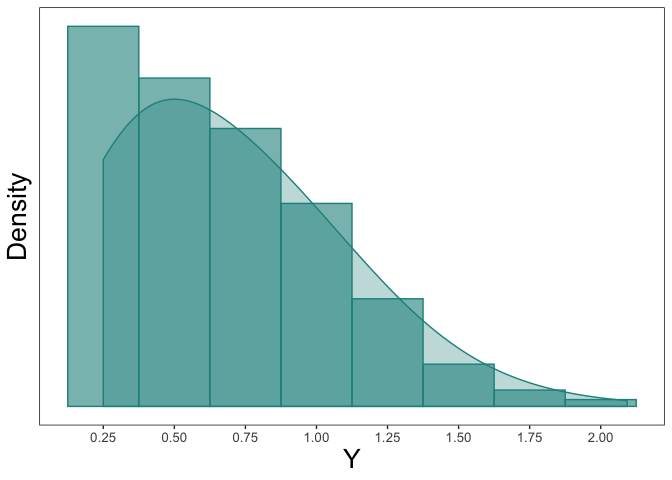
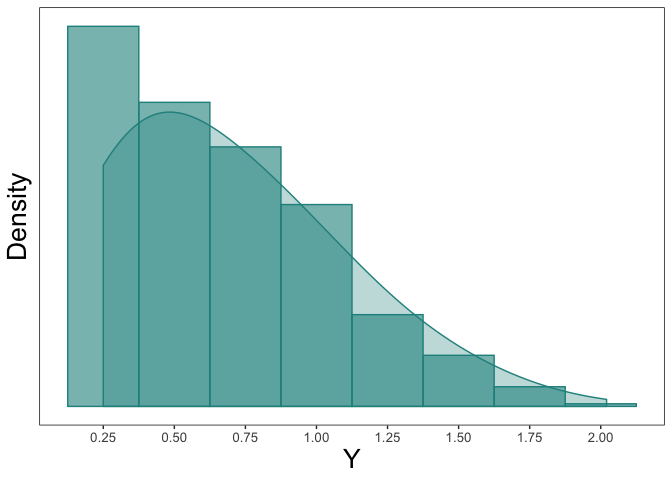
adding arXiv reference to README

diff --git a/README.md b/README.md
@@ -10,6 +10,11 @@ This package is also able to return maximum likelihood estimates for
 truncated only or censored only data similar to `truncreg` and `censReg`
 packages.
 
+For details on the methods, simulation performance, and an application
+to visual quality testing from clinical trials for intraocular lenses
+see the pre-print manuscript available at
+arXiv:[1911.11221](https://arxiv.org/abs/1911.11221).
+
 # Installation
 
 You can install `tcensReg` from GitHub via the devtools package with:
@@ -47,7 +52,7 @@ y_star <- rtnorm(n=1000, mu=mu, sd=sigma, a=a)
 round(range(y_star), 3)
 ```
 
-    ## [1] 0.001 2.093
+    ## [1] 0.002 2.021
 
 Next, we can imagine a scenario where we have an imprecise measurement
 of `y_star` leading to censoring. In our case we assume that values
@@ -63,7 +68,7 @@ y <- ifelse(y_star <= nu, nu, y_star)
 sum(y == nu)/length(y) 
 ```
 
-    ## [1] 0.178
+    ## [1] 0.175
 
 ``` r
 #collecting the uncensored and censored data together
@@ -87,23 +92,23 @@ tcensReg(y ~ 1, data=dt, a=0, v=0.25)
 ```
 
     ## $theta
-    ##              Estimate
-    ## (Intercept)  0.510163
-    ## log_sigma   -0.694013
+    ##               Estimate
+    ## (Intercept)  0.4985961
+    ## log_sigma   -0.6756989
     ## 
     ## $convergence
     ## [1] 0
     ## 
     ## $initial_ll
-    ## [1] -676.9805
+    ## [1] -678.9649
     ## 
     ## $final_ll
-    ## [1] -663.1653
+    ## [1] -663.5982
     ## 
     ## $var_cov
     ##               (Intercept)     log_sigma
-    ## (Intercept)  0.0008139653 -0.0008075067
-    ## log_sigma   -0.0008075067  0.0015552505
+    ## (Intercept)  0.0009021109 -0.0008835813
+    ## log_sigma   -0.0008835813  0.0016105281
     ## 
     ## $method
     ## [1] "CG"
@@ -152,9 +157,9 @@ knitr::kable(results_df, format="markdown", digits=4)
 |            |     mu |  sigma | mu\_bias | sigma\_bias |
 | :--------- | -----: | -----: | -------: | ----------: |
 | Truth      | 0.5000 | 0.5000 |   0.0000 |      0.0000 |
-| tcensReg   | 0.5102 | 0.4996 |   0.0102 |      0.0004 |
-| Normal MLE | 0.6708 | 0.3720 |   0.1708 |      0.1280 |
-| Tobit      | 0.6279 | 0.4361 |   0.1279 |      0.0639 |
+| tcensReg   | 0.4986 | 0.5088 |   0.0014 |      0.0088 |
+| Normal MLE | 0.6693 | 0.3761 |   0.1693 |      0.1239 |
+| Tobit      | 0.6267 | 0.4393 |   0.1267 |      0.0607 |
 
 Other methods result in significant bias for both `mu` and `sigma`.
 
@@ -208,28 +213,28 @@ mod_result
 
     ## $theta
     ##       (Intercept) groupPopulation 2        log_sigma1        log_sigma2 
-    ##        0.50385509        0.03116756       -1.41697232        0.80394657 
+    ##         0.5011022         0.1918981        -1.4297372         0.7564070 
     ## 
     ## $convergence
     ## [1] 1
     ## 
     ## $initial_ll
-    ## [1] -1963.795
+    ## [1] -1929.509
     ## 
     ## $final_ll
-    ## [1] -1868.682
+    ## [1] -1839.385
     ## 
     ## $var_cov
     ##                     (Intercept) groupPopulation 2    log_sigma1
-    ## (Intercept)        7.071249e-05     -7.071249e-05 -6.025734e-05
-    ## groupPopulation 2 -7.071249e-05      6.840507e-02  6.025734e-05
-    ## log_sigma1        -6.025734e-05      6.025734e-05  7.767044e-04
-    ## log_sigma2        -6.153304e-21     -1.336395e-02  4.609575e-21
+    ## (Intercept)        6.863419e-05     -6.863419e-05 -5.841808e-05
+    ## groupPopulation 2 -6.863419e-05      5.232715e-02  5.841808e-05
+    ## log_sigma1        -5.841808e-05      5.841808e-05  7.742292e-04
+    ## log_sigma2         0.000000e+00     -1.103773e-02  6.715368e-21
     ##                      log_sigma2
-    ## (Intercept)       -6.153304e-21
-    ## groupPopulation 2 -1.336395e-02
-    ## log_sigma1         4.609575e-21
-    ## log_sigma2         3.165867e-03
+    ## (Intercept)        0.000000e+00
+    ## groupPopulation 2 -1.103773e-02
+    ## log_sigma1         6.715368e-21
+    ## log_sigma2         2.904511e-03
     ## 
     ## $method
     ## [1] "maxLik"
@@ -253,7 +258,7 @@ knitr::kable(results_df, format="markdown", digits=4)
 |          |  mu\_1 |  mu\_2 | sigma\_1 | sigma\_2 | mu1\_bias | mu2\_bias | sigma1\_bias | sigma2\_bias |
 | :------- | -----: | -----: | -------: | -------: | --------: | --------: | -----------: | -----------: |
 | Truth    | 0.5000 | 1.0000 |   0.2500 |   2.0000 |    0.0000 |    0.0000 |       0.0000 |       0.0000 |
-| tcensReg | 0.5039 | 0.0312 |   0.2424 |   2.2343 |    0.0039 |    0.9688 |       0.0076 |       0.2343 |
+| tcensReg | 0.5011 | 0.1919 |   0.2394 |   2.1306 |    0.0011 |    0.8081 |       0.0106 |       0.1306 |
 
 # Performance Comparison: Censored-Only and Truncated-Only
 
@@ -274,10 +279,10 @@ cens <- microbenchmark(tcensReg_method = tcensReg(y ~ 1, data=dt, v=nu, method="
 knitr::kable(summary(cens), format="markdown", digits=4)
 ```
 
-| expr             |     min |      lq |    mean |  median |      uq |     max | neval | cld |
-| :--------------- | ------: | ------: | ------: | ------: | ------: | ------: | ----: | :-- |
-| tcensReg\_method |  4.8150 |  5.1894 |  6.7136 |  5.3320 |  7.2366 | 16.2714 |   100 | a   |
-| censReg\_method  | 13.4635 | 14.3291 | 19.6112 | 16.5354 | 21.7337 | 97.3373 |   100 | b   |
+| expr             |     min |      lq |    mean |  median |     uq |      max | neval | cld |
+| :--------------- | ------: | ------: | ------: | ------: | -----: | -------: | ----: | :-- |
+| tcensReg\_method |  4.9066 |  5.1803 |  8.1753 |  5.4755 |  7.566 | 114.0816 |   100 | a   |
+| censReg\_method  | 13.7456 | 14.5153 | 20.2144 | 19.1902 | 22.658 |  50.6535 |   100 | b   |
 
 ``` r
 #point estimates are equivalent
@@ -299,8 +304,8 @@ knitr::kable(summary(trunc), format="markdown", digits=4)
 
 | expr             |     min |      lq |    mean |  median |      uq |     max | neval | cld |
 | :--------------- | ------: | ------: | ------: | ------: | ------: | ------: | ----: | :-- |
-| tcensReg\_method |  8.3941 |  8.6821 | 10.0276 |  8.9120 | 10.9024 | 20.3003 |   100 | a   |
-| truncreg\_method | 24.8436 | 27.4892 | 30.2376 | 30.4455 | 32.0134 | 39.7985 |   100 | b   |
+| tcensReg\_method |  8.4382 |  9.1253 | 11.8149 | 10.5998 | 14.1876 | 23.9085 |   100 | a   |
+| truncreg\_method | 26.4334 | 29.7325 | 35.8368 | 35.4929 | 39.7004 | 58.7695 |   100 | b   |
 
 ``` r
 tcensReg_est <- as.numeric(tcensReg(y_star ~ 1, data=dt, a=a, method="Newton")$theta)
@@ -310,7 +315,7 @@ truncreg_est <- as.numeric(coef(truncreg(y_star ~ 1, point=a, data=dt)))
 all.equal(tcensReg_est, truncreg_est)
 ```
 
-    ## [1] "Mean relative difference: 3.746943e-07"
+    ## [1] "Mean relative difference: 3.784587e-08"
 
 In the comparisons above we are using an intercept only model, but in
 general we expect that interest lies in understanding how a set of
@@ -343,8 +348,8 @@ knitr::kable(summary(cens), format="markdown", digits=4)
 
 | expr             |      min |       lq |     mean |   median |       uq |      max | neval | cld |
 | :--------------- | -------: | -------: | -------: | -------: | -------: | -------: | ----: | :-- |
-| tcensReg\_method | 272.3289 | 284.4502 | 333.8427 | 294.2987 | 351.2534 | 612.0066 |   100 | a   |
-| censReg\_method  | 318.1372 | 337.1233 | 392.1132 | 354.0424 | 446.1654 | 732.6551 |   100 | b   |
+| tcensReg\_method | 210.3525 | 222.9624 | 262.6200 | 237.2924 | 267.8209 | 597.6426 |   100 | a   |
+| censReg\_method  | 296.9716 | 320.5128 | 369.1039 | 343.6256 | 381.9709 | 792.4725 |   100 | b   |
 
 ``` r
 #point estimates are equivalent
@@ -353,7 +358,7 @@ censReg_est <- as.numeric(coef(censReg(y ~ ., left=nu, data=dt)))
 all.equal(tcensReg_est, censReg_est)
 ```
 
-    ## [1] "Mean relative difference: 0.0001556861"
+    ## [1] "Mean relative difference: 0.0001325076"
 
 ``` r
 #testing the truncated-only regression with 100 covariates
@@ -364,8 +369,8 @@ knitr::kable(summary(trunc), format="markdown", digits=4)
 
 | expr             |      min |       lq |     mean |   median |       uq |      max | neval | cld |
 | :--------------- | -------: | -------: | -------: | -------: | -------: | -------: | ----: | :-- |
-| tcensReg\_method | 269.8651 | 285.8279 | 328.2997 | 304.2967 | 321.2691 | 839.3725 |   100 | a   |
-| truncreg\_method | 398.1651 | 438.4849 | 507.4254 | 468.0771 | 557.9831 | 853.2803 |   100 | b   |
+| tcensReg\_method | 234.3927 | 244.0613 | 266.6726 | 252.3333 | 274.7074 | 478.7629 |   100 | a   |
+| truncreg\_method | 357.4169 | 376.8427 | 422.9028 | 402.9691 | 433.9967 | 701.5482 |   100 | b   |
 
 ``` r
 tcensReg_est <- as.numeric(tcensReg(y_star ~ ., data=dt, a=a, method="BFGS")$theta)
@@ -375,4 +380,4 @@ truncreg_est <- as.numeric(coef(truncreg(y_star ~ ., point=a, data=dt)))
 all.equal(tcensReg_est, truncreg_est)
 ```
 
-    ## [1] "Mean relative difference: 5.21602e-05"
+    ## [1] "Mean relative difference: 4.399461e-05"
